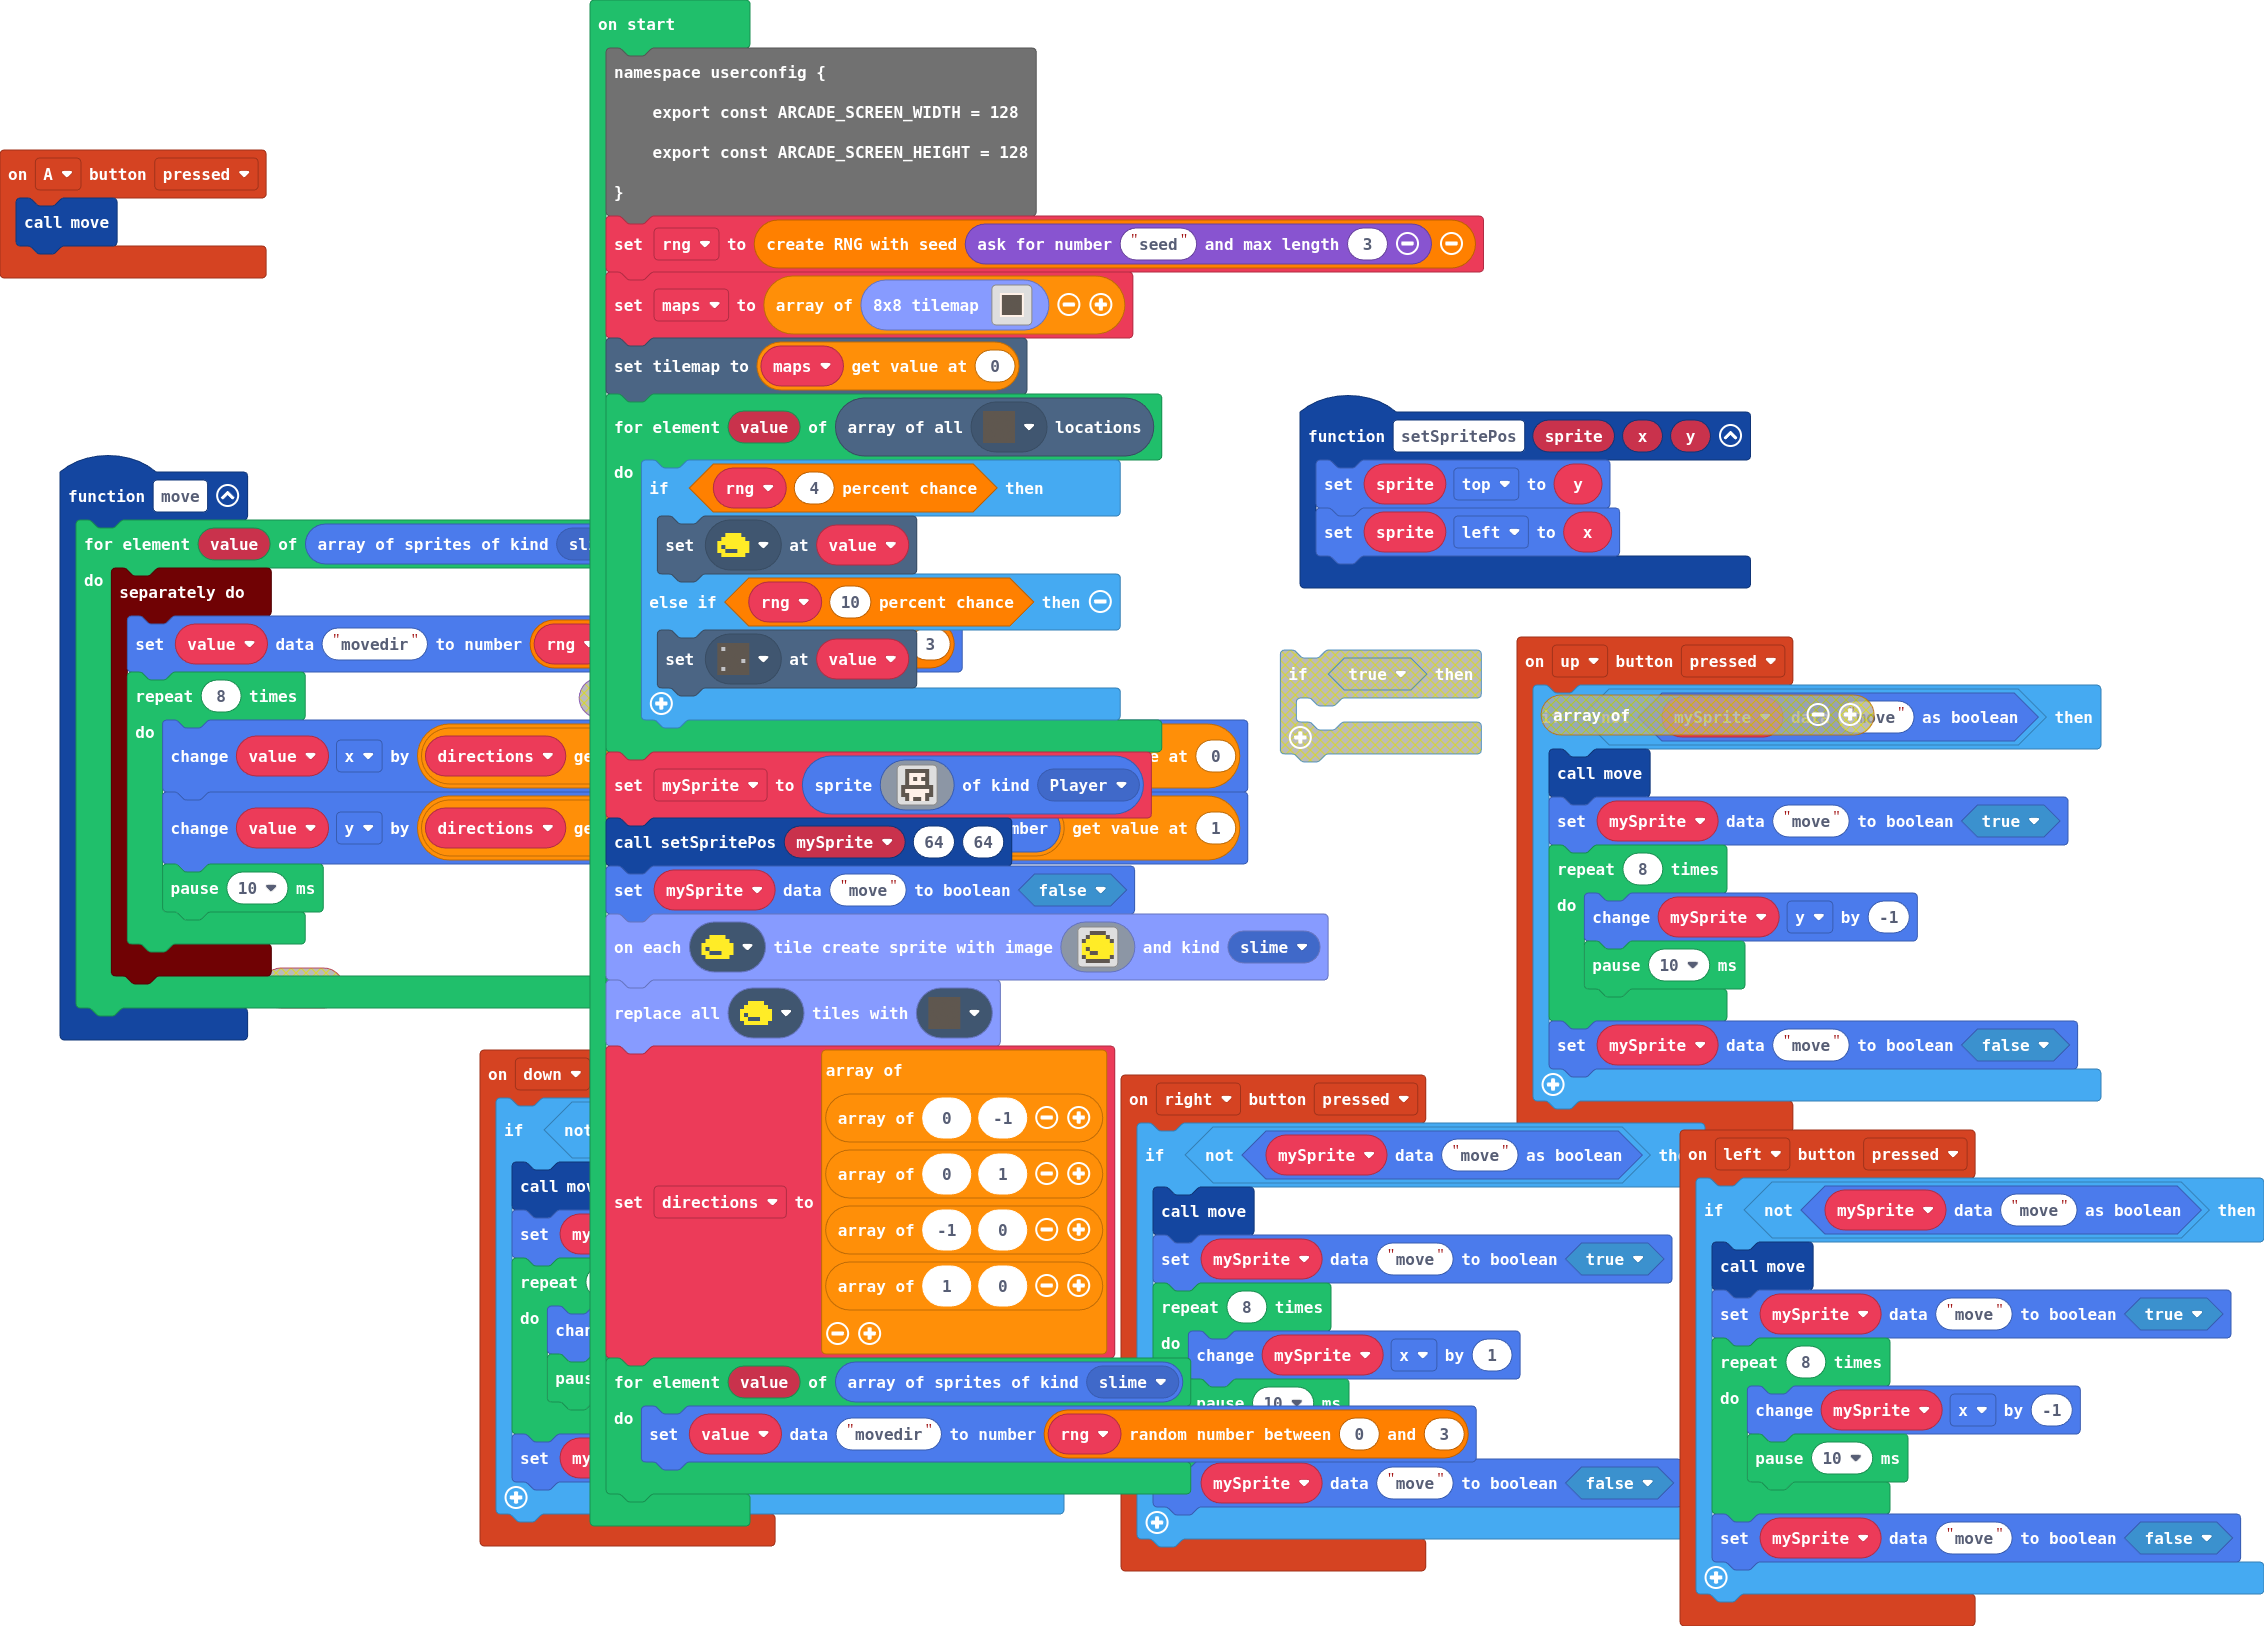
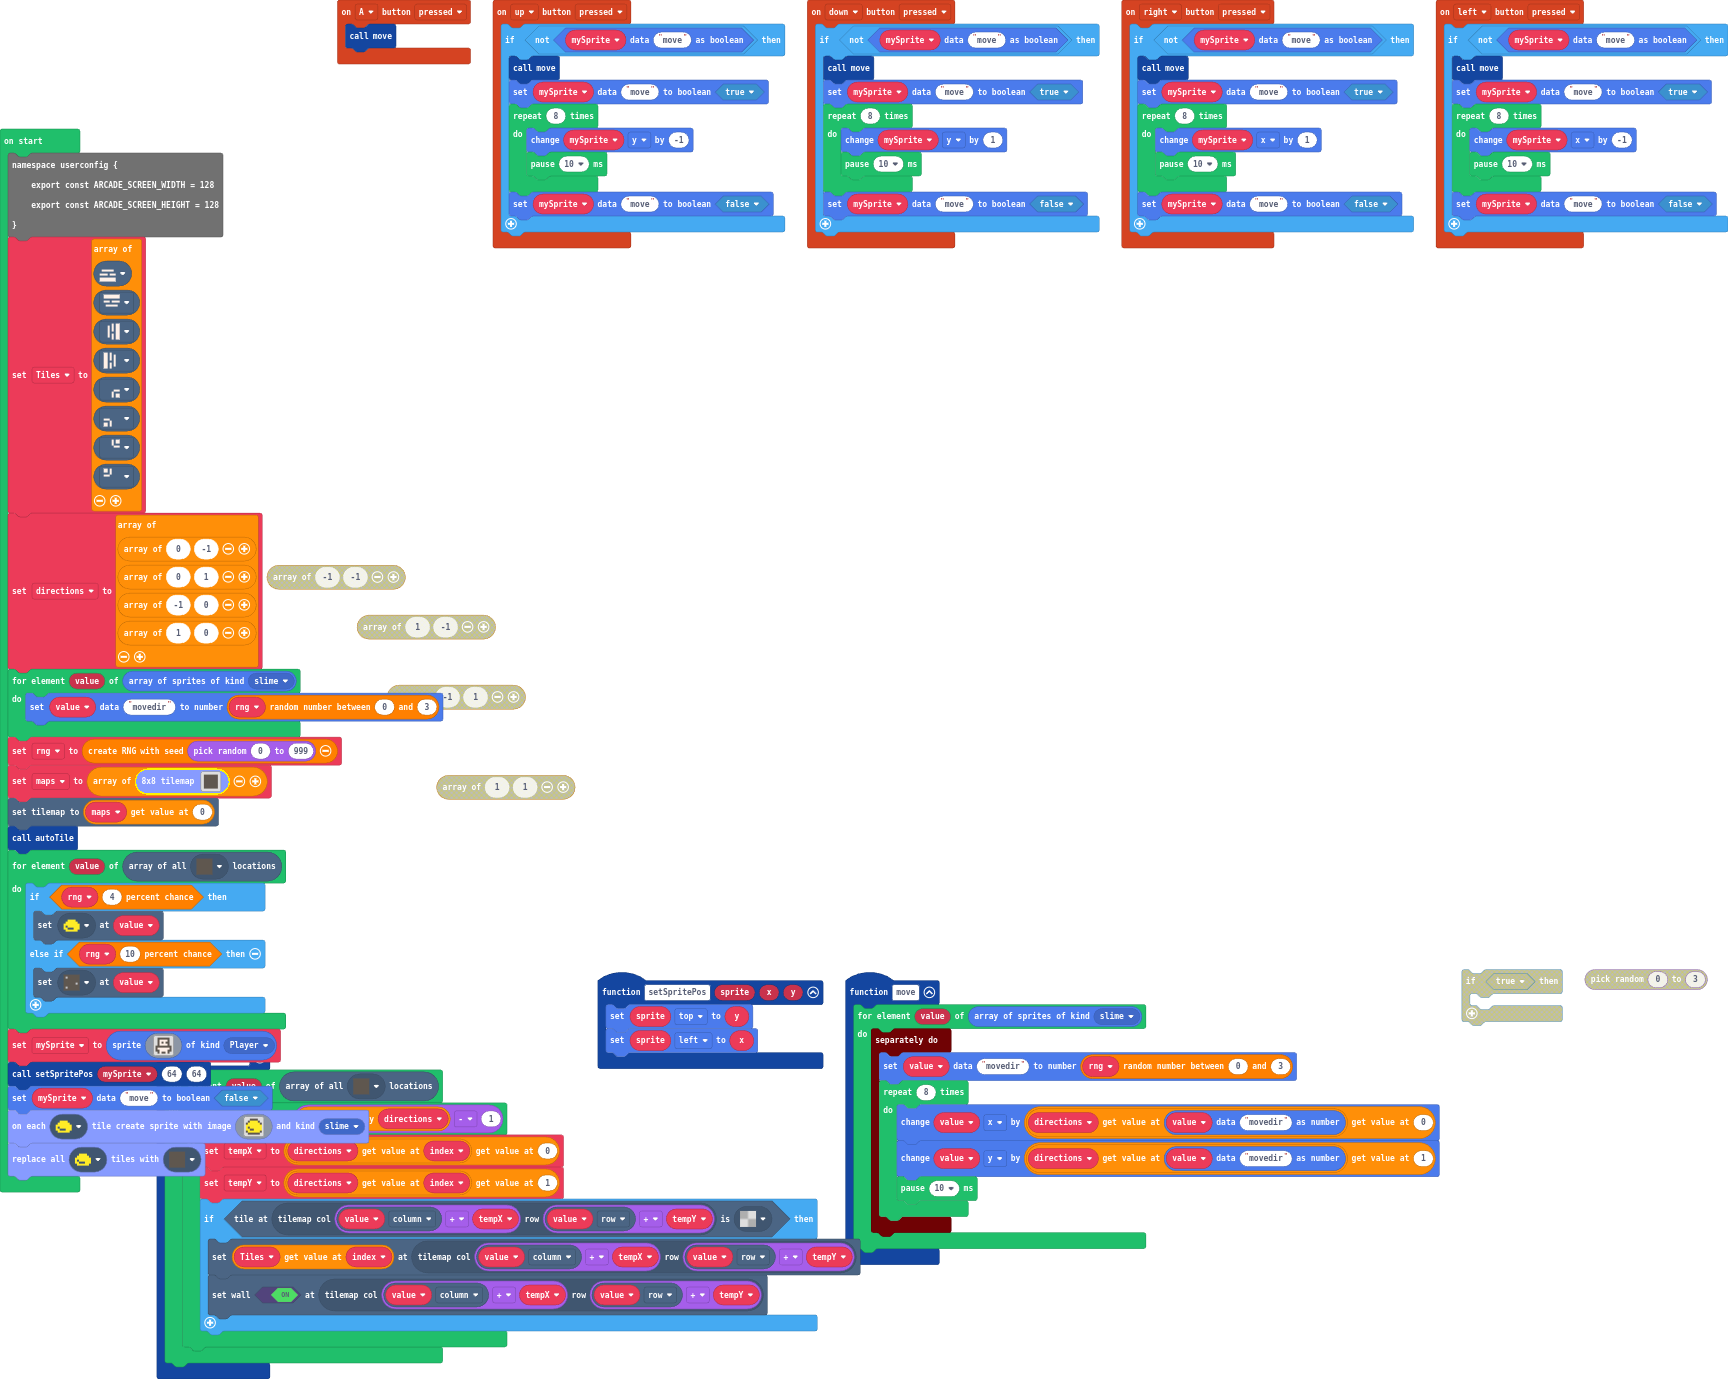
Attempting to implement autotiling

diff --git a/tilemap.g.ts b/tilemap.g.ts
@@ -143,24 +143,24 @@ namespace myTiles {
 . . . . . . . . . . . . . . . . 
 `, [myTiles.transparency16], TileScale.Sixteen);
             case "level2":
-            case "level2":return tiles.createTilemap(hex`1000100000000000000000000000000000000000000000000000000000000000000000000000080101010101010101010102000000000709090909090909090909030000000007090909090909090909090300000000070909090909090909090903000000000709090909090909090909030000000007090909090909090909090300000000070909090909090909090903000000000709090909090909090909030000000007090909090909090909090300000000070909090909090909090903000000000709090909090909090909030000000006050505050505050505050400000000000000000000000000000000000000000000000000000000000000000000`, img`
+            case "level2":return tiles.createTilemap(hex`1000100000000000000000000000000000000000000101010101010101010101010101000001010101010101010101010101010000010101010101010101010101010100000101010101010101010101010101000001010101010101010101010101010000010101010101010101010101010100000101010101010101010101010101000001010101010101010101010101010000010101010101010101010101010100000101010101010101010101010101000001010101010101010101010101010000010101010101010101010101010100000101010101010101010101010101000001010101010101010101010101010000000000000000000000000000000000`, img`
 . . . . . . . . . . . . . . . . 
 . . . . . . . . . . . . . . . . 
-. . 2 2 2 2 2 2 2 2 2 2 2 2 . . 
-. . 2 . . . . . . . . . . 2 . . 
-. . 2 . . . . . . . . . . 2 . . 
-. . 2 . . . . . . . . . . 2 . . 
-. . 2 . . . . . . . . . . 2 . . 
-. . 2 . . . . . . . . . . 2 . . 
-. . 2 . . . . . . . . . . 2 . . 
-. . 2 . . . . . . . . . . 2 . . 
-. . 2 . . . . . . . . . . 2 . . 
-. . 2 . . . . . . . . . . 2 . . 
-. . 2 . . . . . . . . . . 2 . . 
-. . 2 2 2 2 2 2 2 2 2 2 2 2 . . 
 . . . . . . . . . . . . . . . . 
 . . . . . . . . . . . . . . . . 
-`, [myTiles.transparency8,myTiles.tile1,myTiles.tile2,myTiles.tile3,myTiles.tile4,myTiles.tile9,myTiles.tile10,myTiles.tile12,myTiles.tile13,myTiles.tile14,myTiles.tile6], TileScale.Eight);
+. . . . . . . . . . . . . . . . 
+. . . . . . . . . . . . . . . . 
+. . . . . . . . . . . . . . . . 
+. . . . . . . . . . . . . . . . 
+. . . . . . . . . . . . . . . . 
+. . . . . . . . . . . . . . . . 
+. . . . . . . . . . . . . . . . 
+. . . . . . . . . . . . . . . . 
+. . . . . . . . . . . . . . . . 
+. . . . . . . . . . . . . . . . 
+. . . . . . . . . . . . . . . . 
+. . . . . . . . . . . . . . . . 
+`, [myTiles.transparency8,myTiles.tile14], TileScale.Eight);
         }
         return null;
     })

diff --git a/main.ts b/main.ts
@@ -52,6 +52,18 @@ controller.down.onEvent(ControllerButtonEvent.Pressed, function () {
         sprites.setDataBoolean(mySprite, "move", false)
     }
 })
+function autoTile () {
+    for (let value of tiles.getTilesByType(assets.tile`myTile12`)) {
+        for (let index = 0; index <= directions.length - 1; index++) {
+            tempX = directions[index][0]
+            tempY = directions[index][1]
+            if (tiles.tileAtLocationEquals(tiles.getTileLocation(value.column + tempX, value.row + tempY), assets.tile`transparency8`)) {
+                tiles.setTileAt(tiles.getTileLocation(value.column + tempX, value.row + tempY), Tiles[index])
+                tiles.setWallAt(tiles.getTileLocation(value.column + tempX, value.row + tempY), true)
+            }
+        }
+    }
+}
 function move () {
     for (let value of sprites.allOfKind(SpriteKind.slime)) {
         timer.background(function () {
@@ -64,16 +76,39 @@ function move () {
         })
     }
 }
-let directions: number[][] = []
+let tempY = 0
+let tempX = 0
 let mySprite: Sprite = null
 let rng: FastRandomBlocks = null
+let directions: number[][] = []
+let Tiles: Image[] = []
 namespace userconfig {
     export const ARCADE_SCREEN_WIDTH = 128
     export const ARCADE_SCREEN_HEIGHT = 128
 }
-rng = Random.createRNG(game.askForNumber("seed", 3))
+Tiles = [
+assets.tile`myTile`,
+assets.tile`myTile7`,
+assets.tile`myTile10`,
+assets.tile`myTile1`,
+assets.tile`myTile11`,
+assets.tile`myTile0`,
+assets.tile`myTile8`,
+assets.tile`myTile2`
+]
+directions = [
+[0, -1],
+[0, 1],
+[-1, 0],
+[1, 0]
+]
+for (let value of sprites.allOfKind(SpriteKind.slime)) {
+    sprites.setDataNumber(value, "movedir", rng.randomRange(0, 3))
+}
+rng = Random.createRNG(randint(0, 999))
 let maps = [tileUtil.createSmallMap(tilemap`level2`)]
 tiles.setCurrentTilemap(maps[0])
+autoTile()
 for (let value of tiles.getTilesByType(assets.tile`myTile12`)) {
     if (rng.percentChance(4)) {
         tiles.setTileAt(value, assets.tile`myTile3`)
@@ -104,12 +139,3 @@ tileUtil.createSpritesOnTiles(assets.tile`myTile3`, img`
     . c c c c c c . 
     `, SpriteKind.slime)
 tileUtil.replaceAllTiles(assets.tile`myTile3`, assets.tile`myTile12`)
-directions = [
-[0, -1],
-[0, 1],
-[-1, 0],
-[1, 0]
-]
-for (let value of sprites.allOfKind(SpriteKind.slime)) {
-    sprites.setDataNumber(value, "movedir", rng.randomRange(0, 3))
-}
